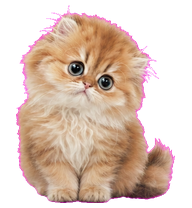
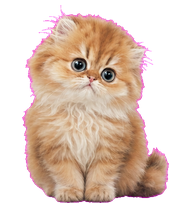
Accept idle retry: real breathing and blink variation confirmed
Claude-Session: https://claude.ai/code/session_01WT5aebgmDY7s8cByVzbKAh

Changed region(s): [[0.0625, 0.0288, 0.9375, 0.9808], [0.7812, 0.8654, 0.8125, 0.8942]]

diff --git a/runs/xiaowei/TASK.md b/runs/xiaowei/TASK.md
@@ -1,12 +1,7 @@
-# 当前任务：idle 重传 + 第 3 批六条动画条 — ChatGPT 版
+# 当前任务：第 3 批六条动画条 — ChatGPT 版
 
-进度：base ✅ · running-right ✅（已通过质检）· running-left ✅（Claude 已镜像派生，无需生成）
-
-## ⚠ 先处理：idle 重新上传
-
-你上传的 `idle.jpg` 只有 120x40 像素，是个缩略图，无法使用。
-如果 ChatGPT 那边的生成结果还在：**重新下载原始尺寸文件**再上传一次
-（命名 `idle.png`）。如果已经找不到了，用下面"任务 2a"的提示词重新生成。
+进度：base ✅ · idle ✅ · running-right ✅ · running-left ✅（镜像派生）
+标准动画行还差六条，全在下面，可并行。
 
 ---
 
@@ -165,34 +160,10 @@ No shadows, no text, no scenery. Keep magenta/pink out of the kitten.
 
 ---
 
-## 任务 2a：idle 重新生成（仅当找不到上次的原图时才需要）
-
-附：`canonical-base.png` + `layout-guides/idle.png`
-
-```text
-请生成一张横向长条动画帧图（宽横版画布）。附图 1 是角色身份基准，附图 2 只用于理解 6 个等宽格子的排版（不要画出格子线）。
-
-Create one horizontal animation strip: exactly 6 full-body frames of the attached kitten character, left to right, evenly spaced in 6 invisible equal-width slots, one centered pose per slot, no overlap or clipping, on a perfectly flat pure magenta #FF00FF background.
-
-Identity: EXACTLY the same kitten as image 1 in every frame — same fur, colors, face, eyes, proportions, sitting pose and painting style.
-
-State: idle breathing-and-blink loop. This is a 6-frame ANIMATION — every neighboring pair of frames must differ visibly:
-Frame 1: resting pose, eyes open, body settled (exhaled), head tilted slightly left.
-Frame 2: inhale begins — chest and body rise slightly (silhouette 2-3% taller), head lifts a touch.
-Frame 3: full inhale — body tallest, chest ruff slightly expanded, head nearly upright.
-Frame 4: eyes fully CLOSED in a soft blink, body sinking back down.
-Frame 5: eyes half-open, body settling, tail tip curls slightly.
-Frame 6: back to resting, very close to frame 1, closing the loop.
-
-Real pose changes only (body height, head angle, ear angle, tail tip) — not re-rendered fur noise. No walking/waving/jumping, no shadows, no text, no effects. Keep magenta/pink out of the kitten.
-
-要求：每相邻两帧必须有肉眼可见的姿态差异；第 4 帧闭眼；第 6 帧回到与第 1 帧几乎相同。生成后给我原始尺寸文件下载。
-```
-
 ## 批次进度
 
 - [x] 1. base 底图 ✅
-- [ ] 2. idle（等待重传原图）/ running-right ✅ / running-left ✅（镜像）
+- [x] 2. idle ✅ / running-right ✅ / running-left ✅（镜像）
 - [ ] 3. waving、jumping、failed、waiting、running、review ← **当前，可并行**
 - [ ] 4. look-cardinals 四方位锚点条
 - [ ] 5. look-row-9（8 个视线方向）
